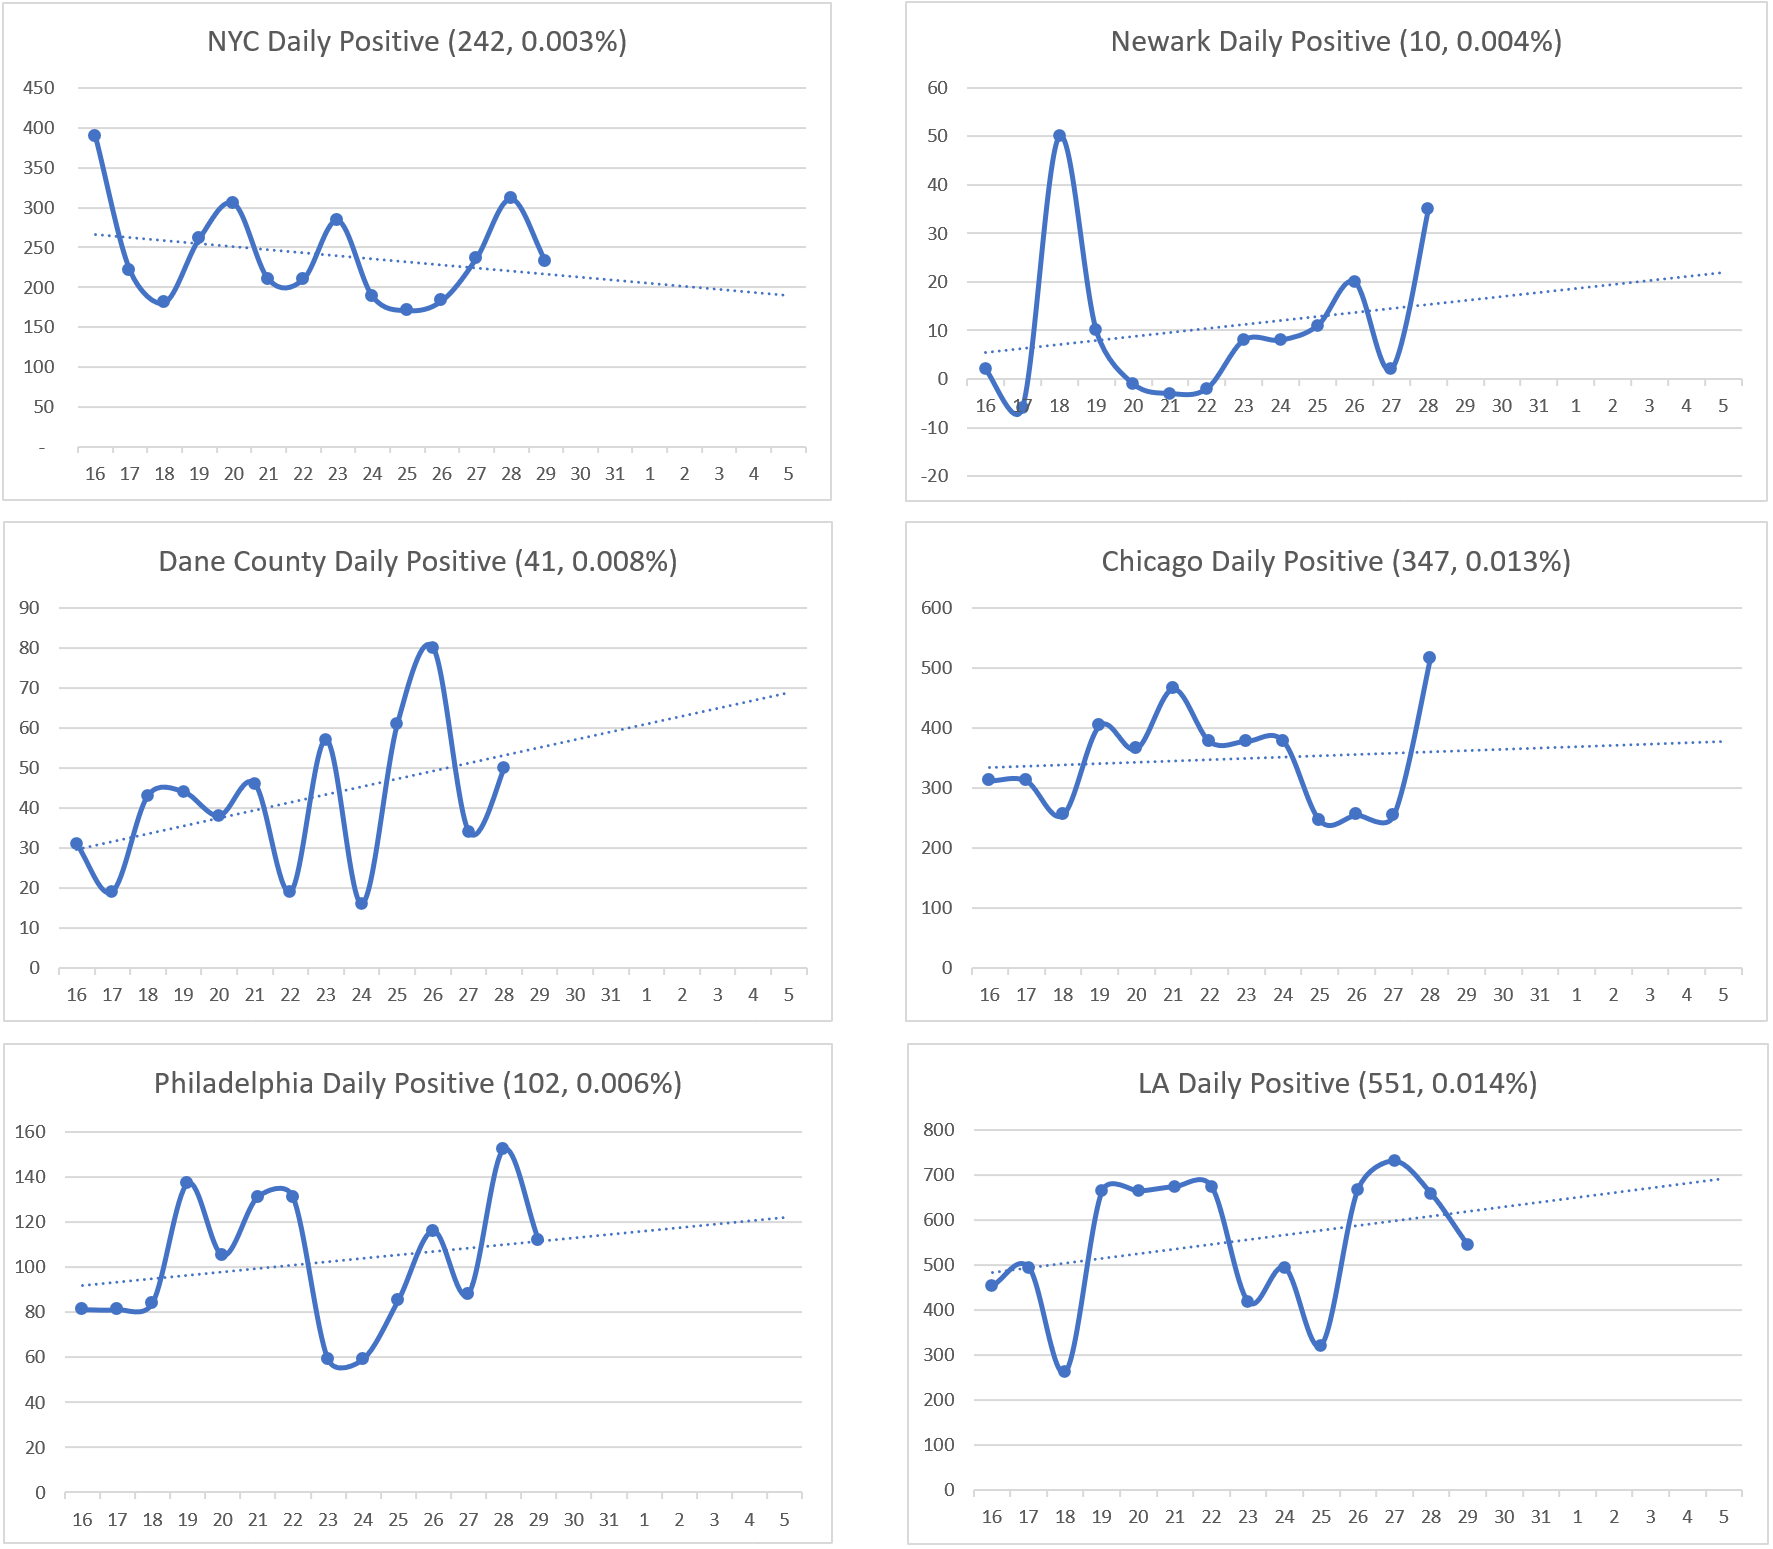
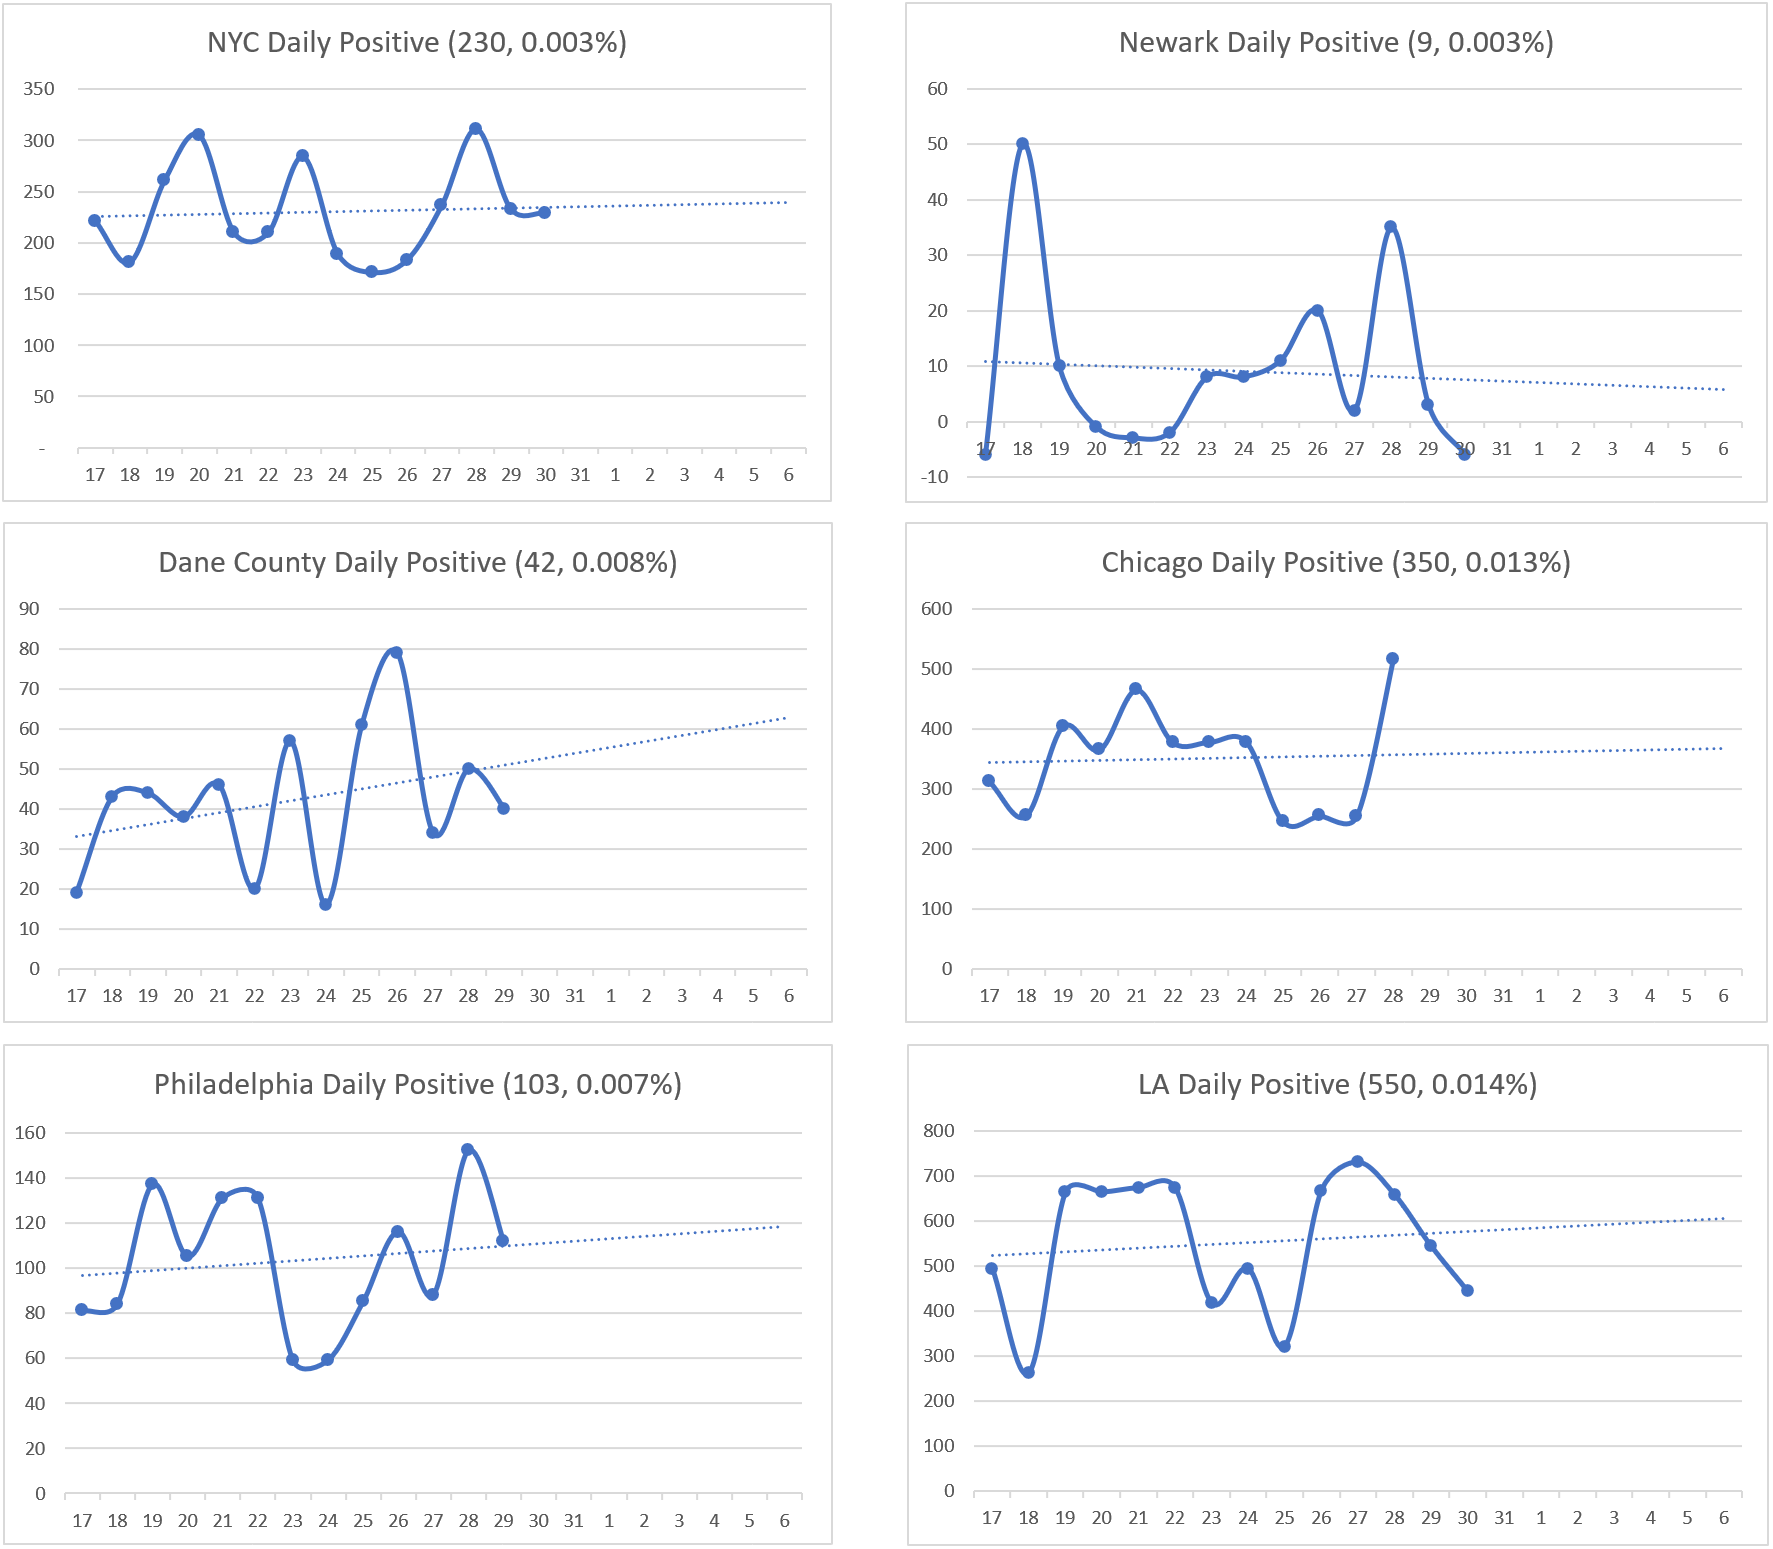
update 8/30 status:

diff --git a/index.html b/index.html
@@ -19,7 +19,7 @@
 
 <body class="container-fluid">
 	<h1> CoronaV for Friends</h1>
-	<h2> Data updated at Aug 29 2020 EST 21:05</h2>
+	<h2> Data updated at Aug 30 2020 EST 21:55</h2>
 	<hr>
 	<main>
 		<div class="row">
